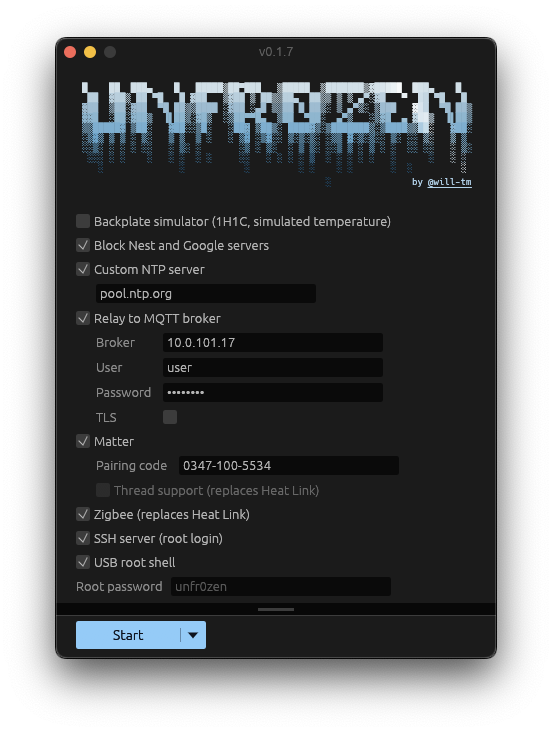
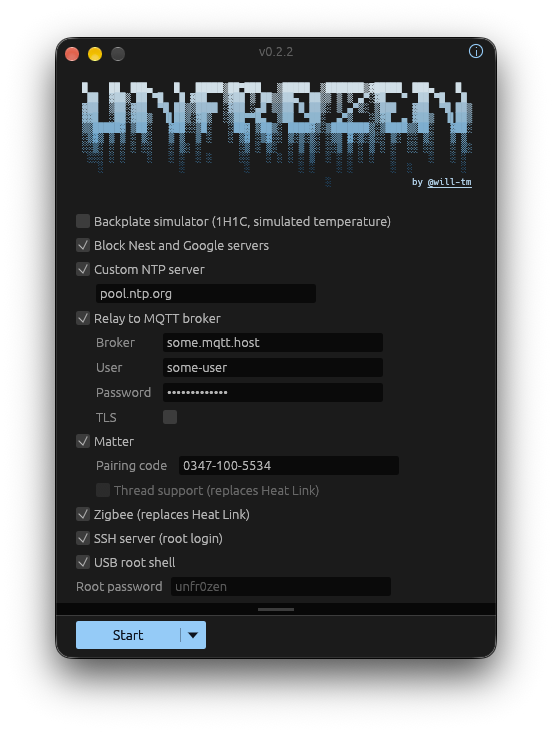
docs: rework the readme around an overview diagram
Show what runs on the unit after patching and what it talks to,
with a caution up front, per-integration status, and sections for
updating, undoing and common problems.

diff --git a/README.md b/README.md
@@ -8,44 +8,60 @@
 Root and free the Nest Learning Thermostat (1st, 2nd and 3rd generation) over USB.
 Local control over MQTT, Matter (Wi-Fi, Thread) or Zigbee, no Google cloud needed.
 
-[The unfr0zen app on macOS](assets/app.png)
+> [!CAUTION]
+> **This rewrites the flash of the device that runs your heating.** A failed run
+> or a bad patch can leave the thermostat unbootable, or running without
+> controlling your heating or cooling. Back up the NAND before the first run
+> ([Undo it](#undo-it)) and have another way to heat or cool the house while you
+> test.
+>
+> Claude Code has been used to speed up the app's GUI, the documentation and the
+> tests. unfr0zen comes **without any warranty**: you use it at your own risk
+> ([Disclaimers](#disclaimers)).
 
-## Device Support
+<picture>
+  <source media="(prefers-color-scheme: dark)" srcset="assets/overview-dark.svg">
+  <img alt="Inside the thermostat, Nest's nlclient app still runs the screen and drives the backplate's heating and cooling wires. nestlocal stands in for Nest's cloud on 127.0.0.1: it reaches an MQTT broker and Matter controllers over Wi-Fi, a Zigbee coordinator through the 802.15.4 radio over SPI, and a Thread border router through OpenThread's ot-daemon and the same radio, which carries Matter over Thread. Nest's and Google's servers are resolved to 0.0.0.0 in /etc/hosts." src="assets/overview-light.svg">
+</picture>
 
-| Device | Codename | SoC |
+## What you get
+
+| | Stock | With unfr0zen |
 |-|-|-|
-| Nest Learning Thermostat (3rd generation) | `diamond3` | i.MX6SoloX |
-| Nest Learning Thermostat (2nd generation) | `j49` | TI AM3703 |
-| Nest Learning Thermostat (1st generation, experimental) | `diamond` | TI AM3703 |
+| Control from | the Nest/Google Home app, through Google's cloud | Home Assistant or any MQTT client, Matter controller or Zigbee coordinator, on your network |
+| Internet access | required | not needed: the unit only has to join your Wi-Fi |
+| Nest and Google servers | always contacted | blocked with Block cloud (`--block-cloud`) |
+| Integrations | none | MQTT, Matter over Wi-Fi or Thread, Zigbee router |
+| Extras | none | SSH (`--ssh`), Doom (`--doom`), whole-NAND backup and restore |
 
-Release builds keep themselves current from that page: the window checks for a
-newer release when it starts and offers to install it next to its version, and
-`unfr0zen update` does the same for the command-line tool. On macOS the window
-replaces its whole `unfr0zen.app`. Development builds (a `git describe` with
-commits past a tag, or local changes) never update.
+## Supported thermostats
 
-The thermostat's display connects to the computer through the micro-USB port on
-its back, with a cable that carries data (a charge-only cable won't work).
+| Device | Codename | SoC | MQTT | Matter (Wi-Fi) | Matter (Thread) | Zigbee |
+|-|-|-|-|-|-|-|
+| Nest Learning Thermostat (3rd generation) | `diamond3` | i.MX6SoloX | ✅ | ✅ | ✅ | ✅ |
+| Nest Learning Thermostat (2nd generation) | `j49` | TI AM3703 | ✅ | ✅ | ✅ | ✅ |
+| Nest Learning Thermostat (1st generation) | `diamond` | TI AM3703 | 🧪 | 🧪 | — | — |
+
+✅ tested on a unit · 🧪 built, not yet tested on a unit · — not available
+
+- **1st generation:** experimental. Patching has not been verified on a physical
+  unit or a stock NAND. Its CC2530 radio uses UART, not the 2nd generation's SPI
+  protocol, so there is no Zigbee, Matter over Thread or USB shell.
+- **2nd generation:** Matter keeps the unit awake.
+- **Thread and Zigbee** share the 2nd and 3rd generation's 802.15.4 radio (an
+  EM357 or EM3581 on SPI), so only one of them can be on. Zigbee drives it
+  directly; Matter over Thread goes through OpenThread's `ot-daemon`.
+
 MQTT, Matter and Zigbee are nestlocal's: choosing any of them installs it on the
-thermostat. With MQTT or Matter, the thermostat then reaches the broker or the
+thermostat. With MQTT or Matter, the thermostat reaches the broker or the
 controller over Wi-Fi, joined from its own menu (Settings → Network); the
 network doesn't need internet access.
 
-The Gen 1 Diamond path has no stock NAND or physical-unit verification. Diamond
-and j49 share the ROM identity `0451:d00e`; in USB download mode the generation
-is read from the NAND's U-Boot environment (`nlmodel`), as Nest's U-Boot tells
-the boards apart. `--device` overrides it.
-Gen 1 uses the j49's x-loader and the OMAP NAND/JFFS2 path. USB shell, Zigbee
-and Matter over Thread are unavailable: its CC2530 radio uses UART, not the
-Gen 2 SPI protocol. MQTT and Matter over Wi-Fi still need Gen 1 firmware testing.
-On the 2nd generation, Zigbee and
-Matter over Thread are untested on a unit, and Matter keeps the unit awake.
-
-## Computer Requirements
+## Requirements
 1. **A USB data cable.** Gen 1 uses mini-USB; Gen 2 and 3 use micro-USB. Charge-only cables won't work.
 2. **Windows (x86_64, arm64), macOS 13+ (universal, arm64, x86_64) or Linux (x86_64, arm64, riscv64; glibc 2.28+).**
 
-## Installing
+## Install
 Download the latest build from the [releases page](https://github.com/unfr0zen/unfr0zen/releases).
 
 - **Windows:** unzip and run `unfr0zen.exe`. 1st and 2nd generation: bind the WinUSB
@@ -89,8 +105,12 @@ Reconnect the unit afterwards if it is already plugged in.
 </details>
 
 ## Usage
-**App:** open it, tick the integrations, plug in the thermostat and follow the
-prompts. Its mode menu also backs up and restores the whole NAND.
+**App:** open it, tick the integrations, fill in their settings (the MQTT
+broker, Matter's pairing code), plug in the thermostat, press **Start** and
+follow the prompts. The arrow beside Start switches to Back up NAND or Restore
+NAND.
+
+<p align="center"><img src="assets/app.png" width="420" alt="The unfr0zen app on macOS: checkboxes for the backplate simulator, blocking Nest and Google servers, a custom NTP server, the MQTT broker with its address, user, password and TLS, Matter with its pairing code and Thread support, Zigbee, the SSH server and the USB root shell, above the Start button and its mode menu arrow."></p>
 
 **CLI (Linux and macOS):** the same executable, run with arguments, works from a
 terminal, over SSH or headless, with a few options the app doesn't have
@@ -124,28 +144,54 @@ Run `unfr0zen --help` for every option.
 Setting up MQTT, Matter, Thread, Zigbee and Doom, with the app's and the CLI's
 options side by side: [unfr0zen.com/integrations](https://unfr0zen.com/integrations/).
 
-## Building
-See [BUILDING.md](BUILDING.md).
+## Updating
+Release builds keep themselves current: the window checks for a newer release
+when it starts and offers to install it next to its version, and
+`unfr0zen update` does the same for the command-line tool. On macOS the window
+replaces its whole `unfr0zen.app`. Development builds (a `git describe` with
+commits past a tag, or local changes) never update.
+
+## Undo it
+- **Before the first run:** the app's Back up NAND (or `unfr0zen backup`) saves
+  the whole NAND to a file, checked with a second read. `unfr0zen verify`
+  compares a backup with the unit.
+- **To go back to stock:** Restore NAND (or `unfr0zen restore`) writes that
+  backup back to the unit.
+- `--backup` also saves the original root volume before each patch.
+
+## When something is wrong
+**The app doesn't see the thermostat.** Use a USB cable that carries data:
+charge-only cables are the usual cause. On Windows, the 1st and 2nd generation
+need the WinUSB driver bound to `0451:d00e` with [Zadig](https://zadig.akeo.ie).
+On Linux, add the [udev rule](#install) and reconnect the unit.
+
+**macOS won't open the app.** It is signed ad hoc, not notarized: run
+`xattr -dr com.apple.quarantine unfr0zen.app`, or allow it under System
+Settings → Privacy & Security.
+
+**Home Assistant shows the thermostat offline.** The availability topic is
+online only while the thermostat's app calls in to nestlocal and nestlocal is
+connected to the broker. Check that the unit is on Wi-Fi (Settings → Network)
+and that it reaches the broker URL you gave it.
+
+Still stuck? [Open an issue](https://github.com/unfr0zen/unfr0zen/issues/new) with:
+- How you ran it (app or CLI, with the options used) and the OS of your computer
+- The full log of the run
+- What the thermostat screen showed
 
 ## Disclaimers
 unfr0zen is provided **as is, without any warranty**. We are **NOT** responsible
 for any data loss, a bricked thermostat, damage to your heating or cooling
 system, or anything else that happens to your device. By using unfr0zen you
 accept full responsibility for the result.
-- Back up first: the app's Back up NAND (or `unfr0zen backup`) saves the whole NAND, Restore NAND (`unfr0zen restore`) puts it back.
 - Modifying the thermostat voids its warranty and may break Google's services for it.
 - Doom takes over the UI: while it runs the thermostat does not control the heating or cooling.
 - Matter uses the test vendor ID (0xFFF1) and test attestation; controllers treat the unit as uncertified.
 - unfr0zen is not affiliated with, endorsed or sponsored by Google LLC or Nest Labs.
   Nest and Nest Learning Thermostat are trademarks of Google LLC.
 
-## Troubleshooting
-When opening an issue, include:
-- How you ran it (app or CLI, with the options used) and the OS of your computer
-- The full log of the run
-- What the thermostat screen showed
-
-Create an issue here: https://github.com/unfr0zen/unfr0zen/issues/new
+## Building
+See [BUILDING.md](BUILDING.md).
 
 ## License
 unfr0zen is licensed under the [GNU General Public License v3.0](LICENSE).

diff --git a/AGENTS.md b/AGENTS.md
@@ -14,7 +14,7 @@ This Rust 2021 workspace builds USB recovery tools for Nest thermostats:
   - `diamond3/`: the gen 3. `bootstrap/` (ROM stage and boot wrapper), `uboot/` (recovery U-Boot submodule, patches and build scripts), `initramfs-init`, `zbwake/` (kernel wake module for each gen 3 release).
   - `j49/`: the gen 2. x-loader build and bare-metal NAND flasher, loaded through x-loader's USB loader, its USB-serial kernel, `zbwake/` module, and dropbear for `--ssh`.
 - `scripts/`: `build-firmware.sh` builds all of `platform/` into `build/`; `make_macos_app.sh` and `install_linux.sh` package the app.
-- `assets/`: app icons, the Linux `.desktop` entry, and the README screenshot.
+- `assets/`: app icons, the Linux `.desktop` entry, and the README's app screenshot and overview diagram (light and dark).
 - `integrations/`: files users install on their side: Home Assistant blueprints (`home-assistant/`) and the Zigbee2MQTT converter (`zigbee2mqtt/`).
 
 Generated outputs belong in ignored `build/`, `target/`, `dist/`, or `.work/` directories.
